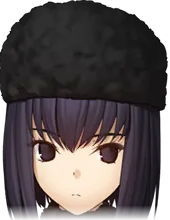
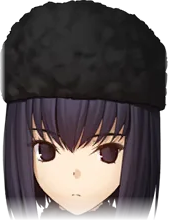
身体加入rotateY转身跟随(头转9度身体转5度), 加宽头身羽化消除缝隙

diff --git a/src/renderer/pet.js b/src/renderer/pet.js
@@ -28,7 +28,7 @@
     tile: { w: 134, h: 118, cx: 67.5, cy: 59.5 },
     sheet: { w: 356, h: 647 }, // 半身照原图尺寸, 用于显示缩放换算
     headBox: { x: 100, y: 0, w: 170, h: 220 }, // 主人标定的头部区域: x100-270, y0-220
-    turn: { turnY: 9, turnX: 7, tx: 2, ty: 1.5 }, // 3D转头: rotateY左右/rotateX上下 + 位移, 身体不动
+    turn: { turnY: 9, turnX: 7, tx: 2, ty: 1.5, bodyY: 5 }, // 3D转头: 头rotateY左右/rotateX上下, 身体rotateY小幅跟随
   };
 
   const DEFAULT_STATE = { on: true, x: null, y: null };
@@ -241,7 +241,8 @@
         const t = FACE.turn;
         // 3D 转头: 左右 rotateY / 上下 rotateX + 轻微位移, 以脖子为轴; 身体不动
         ui.head.style.transform = 'rotateY(' + (x * t.turnY).toFixed(2) + 'deg) rotateX(' + (y * t.turnX).toFixed(2) + 'deg) translateX(' + (x * t.tx).toFixed(2) + 'px) translateY(' + (y * t.ty).toFixed(2) + 'px)';
-        if (ui.bodypart) ui.bodypart.style.transform = '';
+        // 身体同向 rotateY 小幅转身(约头的55%), 遮住头身衔接缝隙
+        if (ui.bodypart) ui.bodypart.style.transform = 'rotateY(' + (x * t.bodyY).toFixed(2) + 'deg)';
       }
       requestAnimationFrame(followLoop);
     }

diff --git a/scripts/make-pet-head-parts.py b/scripts/make-pet-head-parts.py
@@ -1,8 +1,8 @@
 #!/usr/bin/env python3
-"""按主人标定的头部坐标生成桌宠素材:
-头层: (100, 0)..(270, 220), 底部羽化
-身体: 挖空该矩形区域, 挖空边缘羽化
-转轴: 下巴 y=220, 头层 transform-origin 50% 100%
+"""生成桌宠素材(羽化加强版):
+- head.png : 头部 (100,0)-(270,220), 底部羽化 24px, 左右羽化 6px
+- body.png : 挖空头部矩形, 挖空边缘羽化 16px
+头/身体都用 rotateY 3D 转身, 头幅度大, 身体幅度小。
 """
 
 import os
@@ -11,51 +11,36 @@ from PIL import Image
 
 SRC = r"D:\Codex_project\Gaia_Reading\src\renderer\images\pet\cells\半身照.png"
 OUT = r"D:\Codex_project\Gaia_Reading\src\renderer\images\pet\parts"
-
-HEAD = (100, 0, 270, 220)  # x0, y0, x1, y1
+HEAD = (100, 0, 270, 220)
 
 im = Image.open(SRC).convert('RGBA')
 W, H = im.size
 os.makedirs(OUT, exist_ok=True)
 
-# 1) 头层: 只裁头部矩形, 底部 15px 羽化(下巴过渡)
+# 1) 头层: 底部 24px 羽化, 左右 6px 羽化
 head = im.crop(HEAD).convert('RGBA')
 a = np.array(head)
-h = a.shape[0]
-fade0, fade1 = h - 15, h - 1
-for y in range(fade0, fade1 + 1):
-    t = (y - fade0) / (fade1 - fade0 + 1)
+hh = a.shape[0]
+for y in range(hh - 24, hh):
+    t = (y - (hh - 24)) / 24.0
     a[y, :, 3] = (a[y, :, 3] * (1 - t)).astype(np.uint8)
-head = Image.fromarray(a)
-head.save(os.path.join(OUT, 'head.png'))
-print('head saved', head.size)
+for x in range(0, 6):
+    t = (x + 1) / 6.0
+    a[:, x, 3] = (a[:, x, 3] * t).astype(np.uint8)
+    a[:, -(x + 1), 3] = (a[:, -(x + 1), 3] * t).astype(np.uint8)
+Image.fromarray(a).save(os.path.join(OUT, 'head.png'))
 
-# 2) 身体: 挖空头部矩形, 边缘羽化(内缩8px渐变)
+# 2) 身体: 挖空头部矩形, 边缘 16px 羽化
 body = im.copy()
 a = np.array(body)
 x0, y0, x1, y1 = HEAD
-pad = 8
-for y in range(y0, y1 + 1):
-    for x in range(x0, x1 + 1):
-        # 边缘羽化: 靠近矩形边界的像素保留部分alpha
+pad = 16
+for y in range(y0, min(y1 + 1, H)):
+    for x in range(x0, min(x1 + 1, W)):
         d = min(x - x0, x1 - x, y - y0, y1 - y)
         if d >= pad:
             a[y, x, 3] = 0
         elif d >= 0:
             a[y, x, 3] = (a[y, x, 3] * (d + 1) / (pad + 1)).astype(np.uint8)
-body = Image.fromarray(a)
-body.save(os.path.join(OUT, 'body.png'))
-print('body saved', body.size)
-
-# 3) 向左看预览: 身体 + 头层 rotate -9 度
-canvas = Image.new('RGBA', (W, H), (240, 240, 245, 255))
-canvas.paste(body, (0, 0), body)
-rot = head.rotate(-9, resample=Image.BICUBIC, center=(85, 220), expand=False)
-canvas.paste(rot, (x0, y0), rot)
-face = Image.open(r"D:\Codex_project\Gaia_Reading\src\renderer\images\pet\faces\日常表情.png").convert('RGBA')
-# 脸在头层内: 头层起点 (100,0), 脸中心半身照(178.5,176)
-face_left = round(178.5 - 67.5 - x0)
-face_top = round(176 - 59.5 - y0)
-canvas.paste(face, (face_left + x0, face_top + y0), face)
-canvas.save(r"D:\Codex_project\Gaia_Reading\src\renderer\images\pet\head-look-sim.png")
-print('preview saved, face at head-local', (face_left, face_top))
+Image.fromarray(a).save(os.path.join(OUT, 'body.png'))
+print('head/body regenerated with wider feather')
